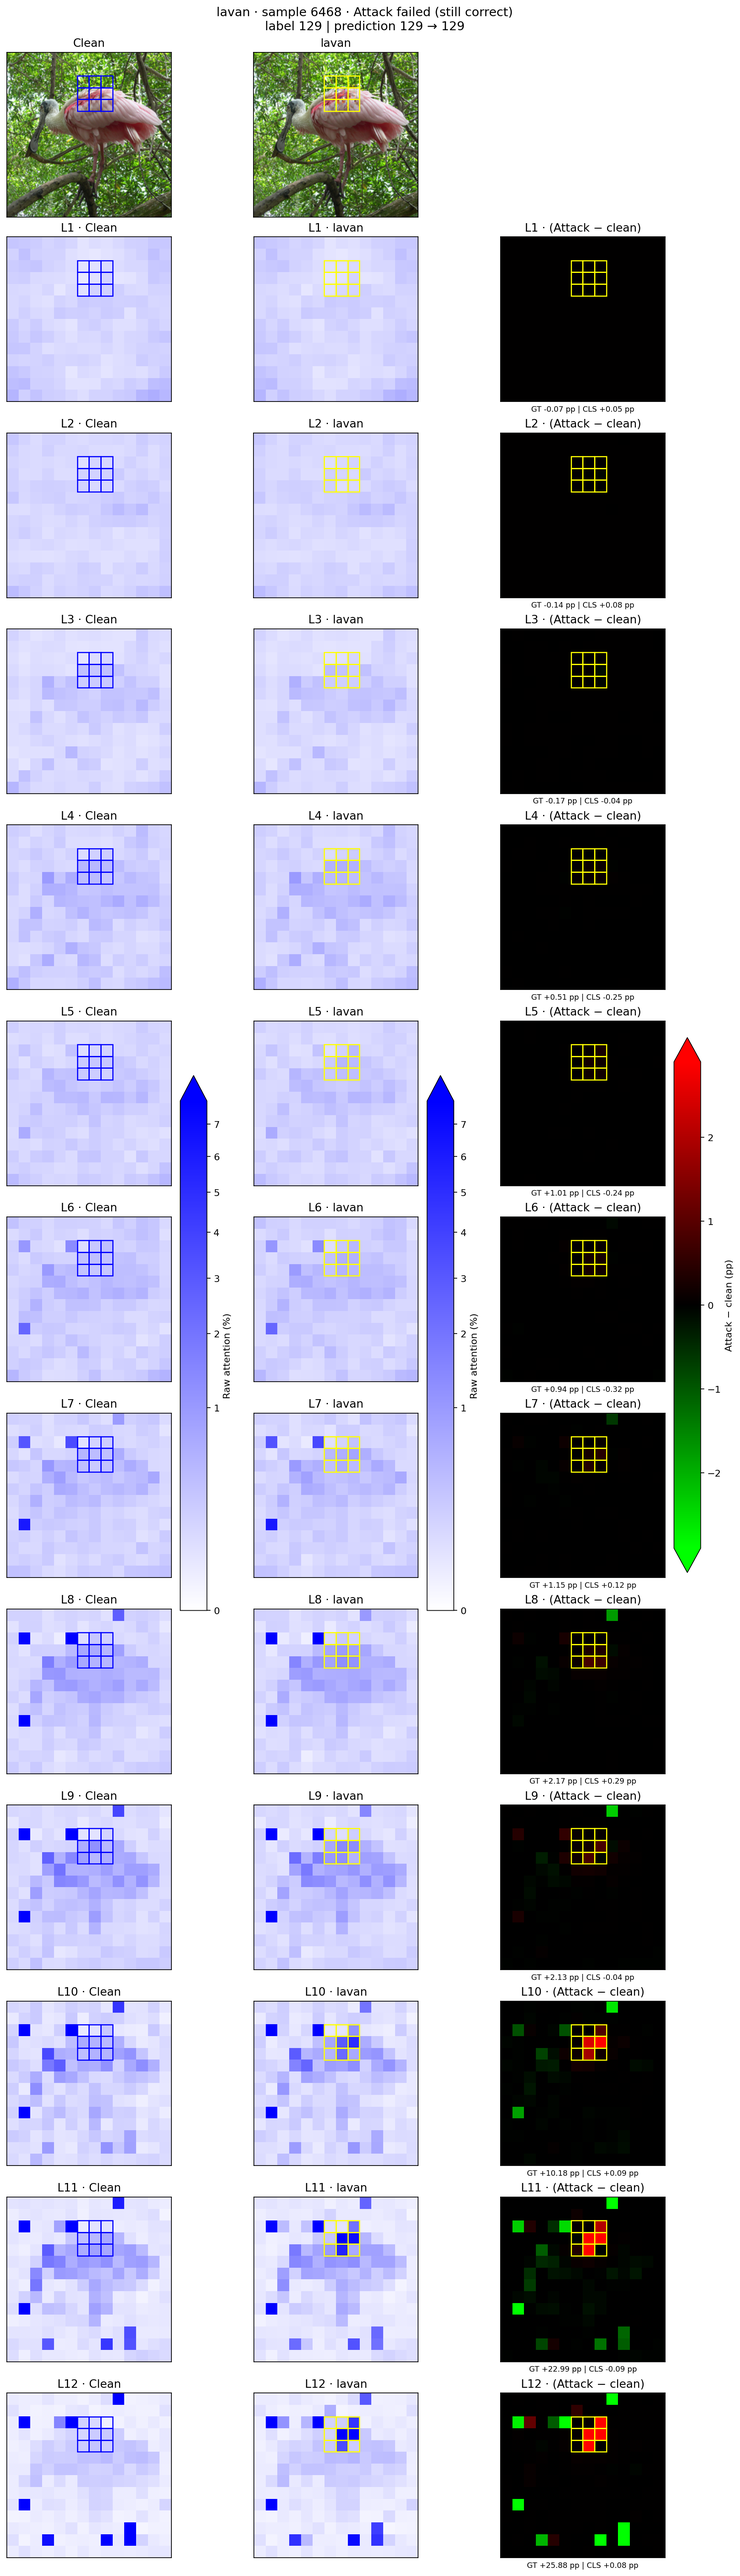
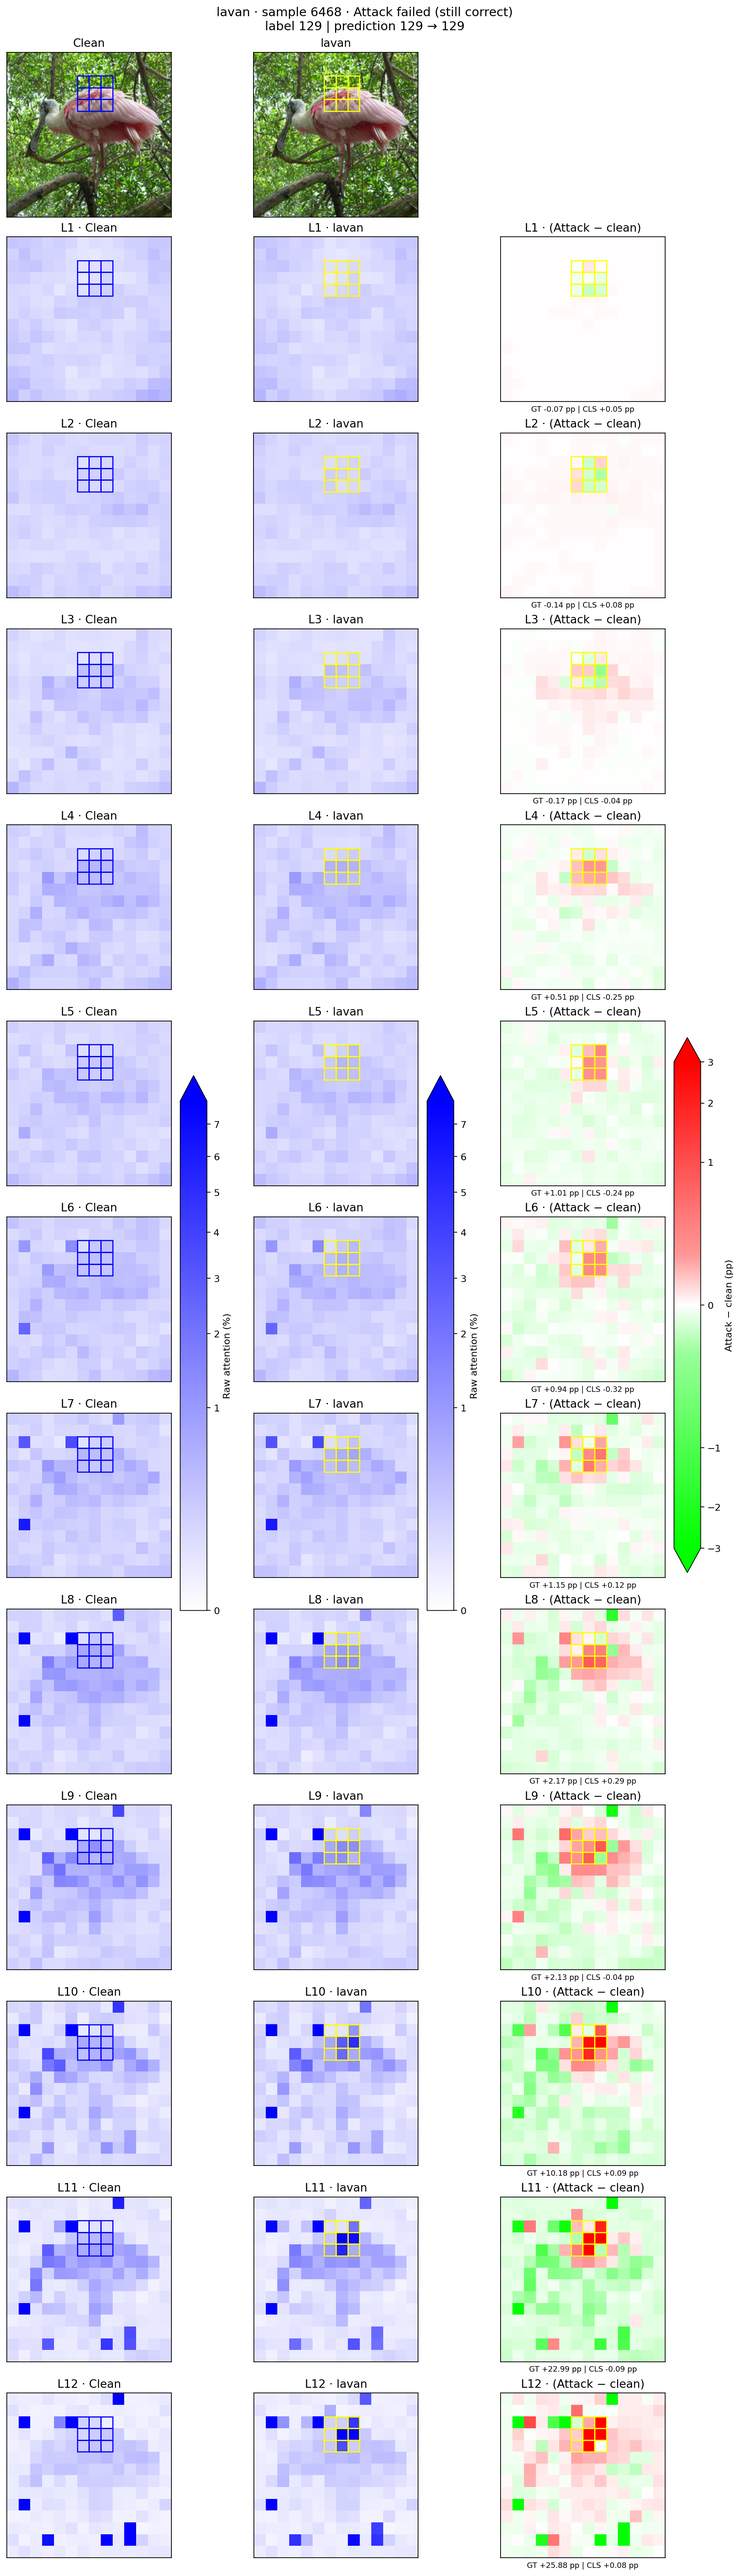
Diff heatmap: white at zero, light->pure green/red with signed power scale

Changed region(s): [[0.6517, 0.0937, 0.9621, 0.9997]]

diff --git a/01_patch_attack_detector/experiments/characterization/02_compare_attention_success_failure.py b/01_patch_attack_detector/experiments/characterization/02_compare_attention_success_failure.py
@@ -15,7 +15,7 @@ import numpy as np
 import matplotlib
 matplotlib.use('Agg')
 import matplotlib.pyplot as plt
-from matplotlib.colors import LinearSegmentedColormap, PowerNorm, TwoSlopeNorm
+from matplotlib.colors import LinearSegmentedColormap, Normalize, PowerNorm
 
 HERE = Path(__file__).resolve().parent
 sys.path.insert(0, str(HERE.parents[1] / 'ground_truth'))   # for `import draw_boxes`
@@ -29,9 +29,30 @@ OUTCOMES = {'attack_success': (1, 'Attack succeeded (misclassified)'),
 # 방어 관점에서 공격 성공=critical, 실패=good인 상태 색 사용 -- 이름의 의미와 색이 서로 확인해준다.
 OUTCOME_COLORS = {'attack_success': '#d03b3b', 'attack_fail': '#0ca30c'}
 # 양 끝이 검정으로 가면 원본/공격/차이가 다 어두워져서 구분이 안 된다 -- 끝 색을 원색으로 둔다.
-# raw attention: 흰색 -> 순수 파랑. 차이: 감소=순수 초록, 0=검정(0인 곳이 눈에 띄지 않게), 증가(attention이 더 몰림)=순수 빨강.
+# raw attention: 흰색 -> 순수 파랑. 차이: 감소=연초록->초록, 0=흰색, 증가(attention이 더 몰림)=순수 빨강.
 SEQUENTIAL = LinearSegmentedColormap.from_list('white_blue', ['#ffffff', '#0000ff'])
-DIVERGING = LinearSegmentedColormap.from_list('green_white_red', ['#00ff00', '#000000', '#ff0000'])
+# 0은 흰색. 흰색에서 바로 연한 초록/연한 빨강으로 건너뛴 뒤 원색으로 진해진다 -- 선형으로
+# 흰색->원색을 이으면 작은 변화가 흰색과 구분이 안 된다.
+DIVERGING = LinearSegmentedColormap.from_list('green_white_red', [
+    (0.0, '#00ff00'), (0.4, '#99ff99'), (0.5, '#ffffff'), (0.6, '#ff9999'), (1.0, '#ff0000')])
+
+
+class SignedPowerNorm(Normalize):
+    """0을 중심으로 부호를 유지한 채 |값|^gamma로 펼친다(gamma<1이면 작은 변화도 흰색에서
+    확실히 떨어진다). 컬러바가 눈금을 되돌릴 수 있도록 inverse를 제공한다."""
+
+    def __init__(self, vmax, gamma=.5):
+        super().__init__(vmin=-vmax, vmax=vmax, clip=True)
+        self.gamma = gamma
+
+    def __call__(self, value, clip=None):
+        v = np.ma.asarray(value, dtype=float)
+        scaled = np.sign(v) * (np.clip(np.abs(v) / self.vmax, 0, 1) ** self.gamma)
+        return np.ma.masked_array(.5 + .5 * scaled, mask=np.ma.getmask(v))
+
+    def inverse(self, value):
+        s = 2 * np.asarray(value, dtype=float) - 1
+        return np.sign(s) * (np.abs(s) ** (1 / self.gamma)) * self.vmax
 METRICS = {'tv': 'Total variation', 'gt_delta': 'Attention change in GT region (pp)'}
 
 
@@ -182,7 +203,7 @@ def draw_maps(data, manifest, attack, sample_i, metrics, layers, scales, status_
 
     mass_max, delta_max = scales
     mass_norm = PowerNorm(gamma=.45, vmin=0, vmax=mass_max)
-    delta_norm = TwoSlopeNorm(vmin=-delta_max, vcenter=0, vmax=delta_max)
+    delta_norm = SignedPowerNorm(delta_max)
     column_image = {}
     for row, layer_i in enumerate(layers, 1):
         panels = [('clean', 'Clean'), ('attacked', attack), ('delta', '(Attack − clean)')]
@@ -366,8 +387,8 @@ def main():
         'ground_truth/draw_boxes.py\'s colors, reused directly: blue on Clean panels, yellow on '
         'attacked/difference panels.\n'
         '- Raw attention: white -> pure blue. Attack-minus-clean: pure green (attention lost) -> '
-        'black (no change) -> pure red (attention concentrated more). Ends are pure colors so panels stay '
-        'distinguishable at the extremes; zero is black so untouched cells recede. Both '
+        'white (no change) -> pure red (attention concentrated more). Ends are pure colors so panels stay '
+        'distinguishable at the extremes; small changes are stretched (signed power scale) so they stay visibly off-white. Both '
         'use a 99.5th-percentile cap (not the true max) shared across every block of a given '
         'attack, so a single extreme sample or patch can\'t blank out the rest, while the real '
         'block-to-block story (near-zero early on, then increasingly concentrated) still shows. '

diff --git a/01_patch_attack_detector/results/characterization/README.md b/01_patch_attack_detector/results/characterization/README.md
@@ -4,7 +4,7 @@ Generated from run `/home/jooyumm/ViT_robust/01_patch_attack_detector/results/ch
 
 - One folder per attack (`patchfool/`, `lavan/`), no outcome subfolders — the outcome is in the filename instead: `ex_attack_success_*` (attack succeeded, image misclassified) vs. `ex_attack_fail_*` (attack failed, image still correct). These names describe the ATTACK's outcome, not a pipeline failure.
 - Maps show CLS-query attention to each patch key, head-averaged, CLS key mass kept (not renormalized away). GT patches (any pixel actually changed) are outlined with ground_truth/draw_boxes.py's colors, reused directly: blue on Clean panels, yellow on attacked/difference panels.
-- Raw attention: white -> pure blue. Attack-minus-clean: pure green (attention lost) -> black (no change) -> pure red (attention concentrated more). Ends are pure colors so panels stay distinguishable at the extremes; zero is black so untouched cells recede. Both use a 99.5th-percentile cap (not the true max) shared across every block of a given attack, so a single extreme sample or patch can't blank out the rest, while the real block-to-block story (near-zero early on, then increasingly concentrated) still shows. Values above the cap are drawn at the top color, marked by the colorbar's arrow, not silently redrawn.
+- Raw attention: white -> pure blue. Attack-minus-clean: pure green (attention lost) -> white (no change) -> pure red (attention concentrated more). Ends are pure colors so panels stay distinguishable at the extremes; small changes are stretched (signed power scale) so they stay visibly off-white. Both use a 99.5th-percentile cap (not the true max) shared across every block of a given attack, so a single extreme sample or patch can't blank out the rest, while the real block-to-block story (near-zero early on, then increasingly concentrated) still shows. Values above the cap are drawn at the top color, marked by the colorbar's arrow, not silently redrawn.
 - GT Δ: attention change summed over GT patches (raw, not renormalized). TV: 0.5 × sum(|attack - clean|) over all 197 tokens including CLS.
 - The layer table uses the *median* over all clean-correct samples; flagged blocks (⚠) are exploratory candidates by descriptive statistics, not a significance test or causal claim.
 - No CSVs here by design — the table above is the numeric result worth keeping. Per-sample/per-head raw numbers are recomputable from `/home/jooyumm/ViT_robust/01_patch_attack_detector/results/characterization/attention_comparison/run_s42/data/` with `compute_metrics()` in this folder's script if ever needed.
